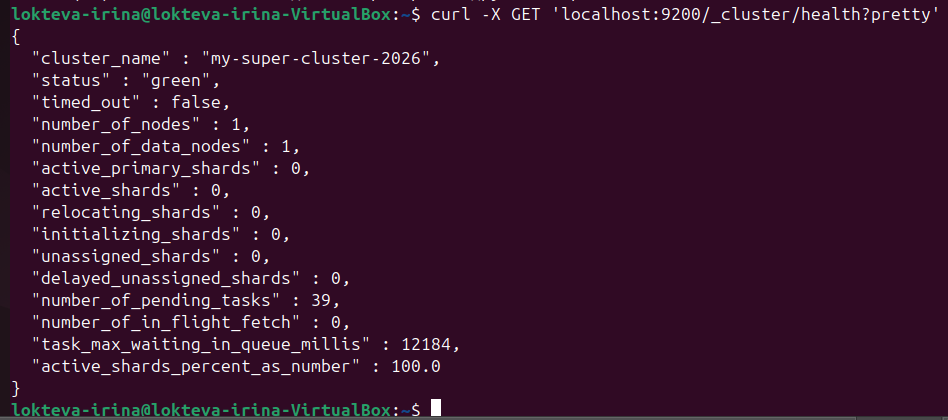
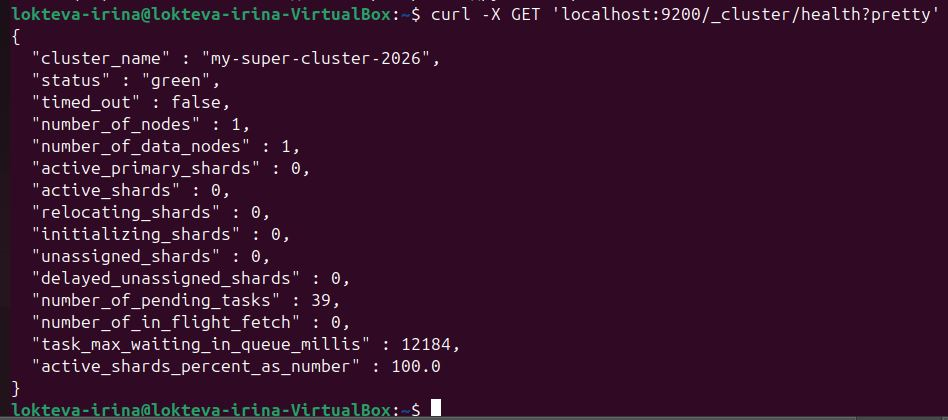
Задание ELK

diff --git a/README.md b/README.md
@@ -2,11 +2,11 @@
 
 ### Задание 1. Elasticsearch
 
-![Статус кластера Elasticsearch](img/Elasticsearch.png)
+ ![Статус кластера Elasticsearch](img/elasticsearch.png)
 
 ### Задание 2. Kibana
 
-
+ ![Статус кластера Elasticsearch](img/kibana_console.png)
 
 ### Задание 3. Logstash
 
